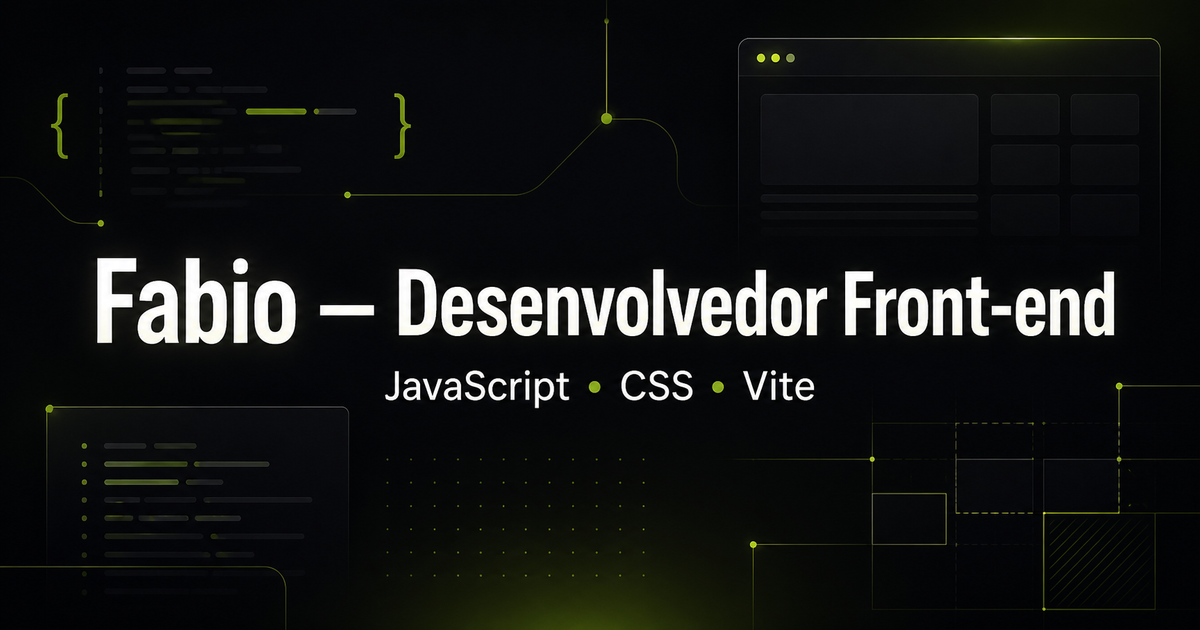
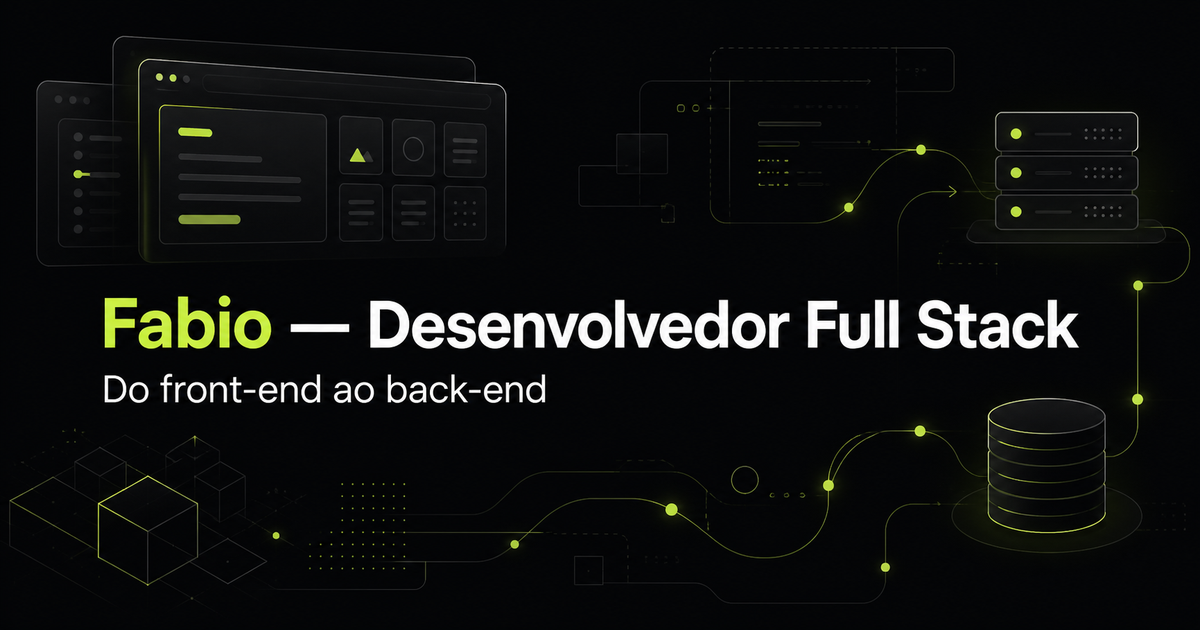
feat: present full stack profile with portrait layout

diff --git a/src/styles/main.css b/src/styles/main.css
@@ -61,9 +61,9 @@ img { display: block; max-width: 100%; }
   width: var(--page);
   height: 92px;
   margin: 0 auto;
-  display: flex;
+  display: grid;
+  grid-template-columns: 1fr auto 1fr;
   align-items: center;
-  justify-content: space-between;
   border-bottom: 1px solid var(--line);
   background: rgb(11 13 12 / 86%);
   backdrop-filter: blur(16px);
@@ -71,6 +71,7 @@ img { display: block; max-width: 100%; }
 }
 
 .brand {
+  justify-self: start;
   display: inline-flex;
   align-items: center;
   gap: 11px;
@@ -89,9 +90,11 @@ img { display: block; max-width: 100%; }
 }
 
 .site-nav {
+  grid-column: 2;
+  justify-self: center;
   display: flex;
   align-items: center;
-  gap: 32px;
+  gap: 24px;
   color: var(--muted);
   font-size: .92rem;
 }
@@ -111,7 +114,8 @@ img { display: block; max-width: 100%; }
 #sobre,
 #projetos,
 #skills,
-#processo {
+#processo,
+#contato {
   scroll-margin-top: 110px;
 }
 
@@ -123,8 +127,8 @@ img { display: block; max-width: 100%; }
   margin: 0 auto;
   padding: 96px 0 88px;
   display: grid;
-  grid-template-columns: 1.08fr .92fr;
-  gap: 80px;
+  grid-template-columns: 1.12fr .88fr;
+  gap: 72px;
   align-items: center;
 }
 
@@ -148,20 +152,12 @@ img { display: block; max-width: 100%; }
 }
 
 .hero h1 {
-  max-width: 760px;
+  max-width: 690px;
   margin: 0;
-  font-size: clamp(3.6rem, 6.5vw, 6.9rem);
+  font-size: clamp(3.4rem, 5.8vw, 6rem);
   font-weight: 650;
   letter-spacing: -.065em;
   line-height: .92;
-}
-
-.hero__intro {
-  max-width: 620px;
-  margin: 32px 0 0;
-  color: var(--muted);
-  font-size: clamp(1.05rem, 1.5vw, 1.25rem);
-  line-height: 1.65;
 }
 
 .hero__actions {
@@ -193,6 +189,82 @@ img { display: block; max-width: 100%; }
 
 .button:hover,
 .project-card__link:hover { transform: translateY(-3px); }
+
+.hero__portrait {
+  width: min(100%, 420px);
+  margin: 0;
+  justify-self: end;
+}
+
+.portrait-frame {
+  position: relative;
+  aspect-ratio: 4 / 5;
+  padding: 10px;
+  overflow: hidden;
+  border: 1px solid #394139;
+  border-radius: 28px 28px 88px 28px;
+  background: linear-gradient(145deg, #1a1e1b, #101311);
+  box-shadow: 0 34px 90px rgb(0 0 0 / 44%);
+}
+
+.portrait-frame::before {
+  content: '';
+  position: absolute;
+  z-index: 0;
+  inset: auto -18% -16% 16%;
+  height: 45%;
+  border-radius: 50%;
+  background: var(--accent);
+  filter: blur(58px);
+  opacity: .22;
+}
+
+.portrait-frame img,
+.portrait-placeholder {
+  position: relative;
+  z-index: 1;
+  width: 100%;
+  height: 100%;
+  border-radius: 20px 20px 78px 20px;
+}
+
+.portrait-frame img {
+  object-fit: cover;
+  object-position: center top;
+}
+
+.portrait-placeholder {
+  display: grid;
+  place-content: center;
+  justify-items: center;
+  gap: 18px;
+  color: var(--accent);
+  background:
+    linear-gradient(145deg, transparent 40%, rgb(199 255 69 / 8%)),
+    #151917;
+}
+
+.portrait-placeholder strong {
+  font: 650 clamp(5rem, 10vw, 8rem)/1 var(--font-sans);
+  letter-spacing: -.09em;
+}
+
+.portrait-placeholder span {
+  color: var(--muted);
+  font: .7rem var(--font-mono);
+  letter-spacing: .08em;
+  text-transform: uppercase;
+}
+
+.hero__portrait figcaption {
+  margin-top: 17px;
+  display: flex;
+  justify-content: space-between;
+  gap: 20px;
+  color: var(--muted);
+  font: .72rem var(--font-mono);
+  text-transform: uppercase;
+}
 
 .hero__visual {
   position: relative;
@@ -504,7 +576,7 @@ img { display: block; max-width: 100%; }
 @media (max-width: 900px) {
   .hero { grid-template-columns: 1fr; gap: 44px; padding-top: 72px; }
   .hero h1 { max-width: 760px; }
-  .hero__visual { min-height: 390px; }
+  .hero__portrait { width: min(78vw, 400px); justify-self: center; }
   .section { padding-block: 96px; }
   .section-heading { grid-template-columns: 1fr; gap: 24px; }
   .project-card__visual { min-height: 310px; padding: 26px; }
@@ -518,8 +590,8 @@ img { display: block; max-width: 100%; }
 
 @media (max-width: 620px) {
   :root { --page: min(100% - 28px, 1180px); }
-  .site-header { height: 76px; }
-  .menu-button { position: relative; z-index: 12; width: 42px; height: 42px; padding: 0; display: grid; place-content: center; gap: 6px; border: 1px solid var(--line); border-radius: 50%; background: var(--bg); cursor: pointer; }
+  .site-header { height: 76px; grid-template-columns: 1fr auto 1fr; }
+  .menu-button { position: relative; z-index: 12; grid-column: 3; justify-self: end; width: 42px; height: 42px; padding: 0; display: grid; place-content: center; gap: 6px; border: 1px solid var(--line); border-radius: 50%; background: var(--bg); cursor: pointer; }
   .menu-button span { width: 17px; height: 1px; background: var(--text); transition: transform 180ms ease; }
   .menu-button[aria-expanded='true'] span:first-child { transform: translateY(3.5px) rotate(45deg); }
   .menu-button[aria-expanded='true'] span:last-child { transform: translateY(-3.5px) rotate(-45deg); }
@@ -528,12 +600,7 @@ img { display: block; max-width: 100%; }
   .hero { min-height: auto; padding: 64px 0 52px; }
   .hero h1 { font-size: clamp(3rem, 15.5vw, 4.6rem); }
   .hero__actions { align-items: flex-start; flex-direction: column; gap: 20px; }
-  .hero__visual { min-height: 330px; }
-  .code-window pre { padding: 28px 20px 32px; font-size: .72rem; }
-  .orbit--one { width: 300px; height: 300px; }
-  .orbit--two { width: 340px; height: 180px; }
-  .visual-tag--top { top: 28px; }
-  .visual-tag--bottom { bottom: 28px; }
+  .hero__portrait { width: min(88vw, 360px); }
   .section { padding-block: 78px; }
   .section-heading { margin-bottom: 38px; }
   .section-heading h2,

diff --git a/src/pages/home.js b/src/pages/home.js
@@ -16,7 +16,6 @@ export function renderHomePage(root) {
         <div class="hero__content">
           <p class="eyebrow"><span></span>${profile.availability}</p>
           <h1>${profile.headline}</h1>
-          <p class="hero__intro">${profile.introduction}</p>
 
           <div class="hero__actions">
             <a class="button button--primary" href="#projetos">Ver projetos <span aria-hidden="true">↘</span></a>
@@ -24,23 +23,22 @@ export function renderHomePage(root) {
           </div>
         </div>
 
-        <aside class="hero__visual" aria-label="Resumo profissional">
-          <div class="code-window">
-            <div class="code-window__top" aria-hidden="true">
-              <span></span><span></span><span></span>
-              <p>portfolio.js</p>
-            </div>
-            <pre><code><span class="code-muted">01</span> const <span class="code-accent">developer</span> = {
-<span class="code-muted">02</span>   foco: <span class="code-string">'experiência'</span>,
-<span class="code-muted">03</span>   stack: [<span class="code-string">'JS'</span>, <span class="code-string">'CSS'</span>, <span class="code-string">'Vite'</span>],
-<span class="code-muted">04</span>   entrega: <span class="code-string">'valor real'</span>
-<span class="code-muted">05</span> }</code></pre>
+        <figure class="hero__portrait">
+          <div class="portrait-frame">
+            ${
+              profile.photo
+                ? `<img src="${profile.photo}" alt="${profile.photoAlt}" fetchpriority="high">`
+                : `<div class="portrait-placeholder" role="img" aria-label="Espaço reservado para a foto de ${profile.name}">
+                    <strong>${profile.initials}</strong>
+                    <span>Adicione sua foto</span>
+                  </div>`
+            }
           </div>
-          <div class="orbit orbit--one"></div>
-          <div class="orbit orbit--two"></div>
-          <span class="visual-tag visual-tag--top">clean code</span>
-          <span class="visual-tag visual-tag--bottom">design + função</span>
-        </aside>
+          <figcaption>
+            <span>${profile.role}</span>
+            <span>${profile.location}</span>
+          </figcaption>
+        </figure>
       </section>
 
       <section class="project-section section" id="projetos">

diff --git a/index.html b/index.html
@@ -2,20 +2,20 @@
 <html lang="pt-BR">
   <head>
     <meta charset="UTF-8" />
-    <meta name="description" content="Portfólio de Fabio, desenvolvedor front-end especializado em experiências digitais com JavaScript, CSS e Vite." />
+    <meta name="description" content="Portfólio de Fabio, desenvolvedor Full Stack especializado em soluções digitais completas, do front-end ao back-end." />
     <meta name="theme-color" content="#0b0d0c" />
     <meta property="og:type" content="website" />
-    <meta property="og:title" content="Fabio — Desenvolvedor Front-end" />
-    <meta property="og:description" content="Interfaces rápidas, responsivas e intuitivas com JavaScript, CSS e Vite." />
+    <meta property="og:title" content="Fabio — Desenvolvedor Full Stack" />
+    <meta property="og:description" content="Soluções digitais completas, do front-end ao back-end." />
     <meta property="og:url" content="https://fabio-portfolio-dev.fabiogisel7.chatgpt.site" />
     <meta property="og:image" content="https://fabio-portfolio-dev.fabiogisel7.chatgpt.site/og.png" />
     <meta name="twitter:card" content="summary_large_image" />
-    <meta name="twitter:title" content="Fabio — Desenvolvedor Front-end" />
-    <meta name="twitter:description" content="Interfaces rápidas, responsivas e intuitivas com JavaScript, CSS e Vite." />
+    <meta name="twitter:title" content="Fabio — Desenvolvedor Full Stack" />
+    <meta name="twitter:description" content="Soluções digitais completas, do front-end ao back-end." />
     <meta name="twitter:image" content="https://fabio-portfolio-dev.fabiogisel7.chatgpt.site/og.png" />
     <link rel="icon" type="image/svg+xml" href="/favicon.svg" />
     <meta name="viewport" content="width=device-width, initial-scale=1.0" />
-    <title>Fabio — Desenvolvedor Front-end</title>
+    <title>Fabio — Desenvolvedor Full Stack</title>
   </head>
   <body>
     <div id="app"></div>

diff --git a/src/data/profile.js b/src/data/profile.js
@@ -1,12 +1,12 @@
 export const profile = {
   name: 'Fabio',
   initials: 'FS',
-  role: 'Desenvolvedor Front-end',
-  headline: 'Eu transformo ideias em experiências digitais que fazem sentido.',
-  introduction:
-    'Crio interfaces rápidas, responsivas e intuitivas com JavaScript, CSS e a simplicidade do Vite.',
+  role: 'Desenvolvedor Full Stack',
+  headline: 'Desenvolvo soluções completas, do front-end ao back-end.',
   availability: 'Disponível para novos projetos',
   location: 'Brasil',
+  photo: '',
+  photoAlt: 'Foto de Fabio, desenvolvedor Full Stack',
   about:
     'Sou um desenvolvedor focado em criar produtos digitais que unem clareza, desempenho e uma boa experiência para quem usa. Gosto de transformar problemas complexos em interfaces simples, acessíveis e fáceis de manter.',
   principles: ['Código organizado', 'Design responsivo', 'Foco no usuário'],

diff --git a/src/data/skills.js b/src/data/skills.js
@@ -1,6 +1,7 @@
 export const skills = [
-  { group: 'Base', items: ['HTML semântico', 'CSS moderno', 'JavaScript ES6+'] },
-  { group: 'Ferramentas', items: ['Vite', 'Git & GitHub', 'APIs REST'] },
+  { group: 'Front-end', items: ['HTML semântico', 'CSS moderno', 'JavaScript ES6+'] },
+  { group: 'Back-end', items: ['Node.js', 'APIs REST', 'Banco de dados'] },
+  { group: 'Ferramentas', items: ['Vite', 'Git & GitHub', 'Integrações'] },
   { group: 'Qualidade', items: ['Responsividade', 'Acessibilidade', 'Performance'] },
 ]
 

diff --git a/src/components/header.js b/src/components/header.js
@@ -18,6 +18,7 @@ export function header() {
         <a href="#projetos">Projetos</a>
         <a href="#skills">Skills</a>
         <a href="#processo">Works</a>
+        <a href="#contato">Contato</a>
       </nav>
     </header>
   `

diff --git a/public/images/README.md b/public/images/README.md
@@ -1,0 +1,5 @@
+# Foto do perfil
+
+Coloque sua foto nesta pasta, preferencialmente com o nome `perfil.webp`.
+
+Depois, em `src/data/profile.js`, altere o campo `photo` para `/images/perfil.webp`.
